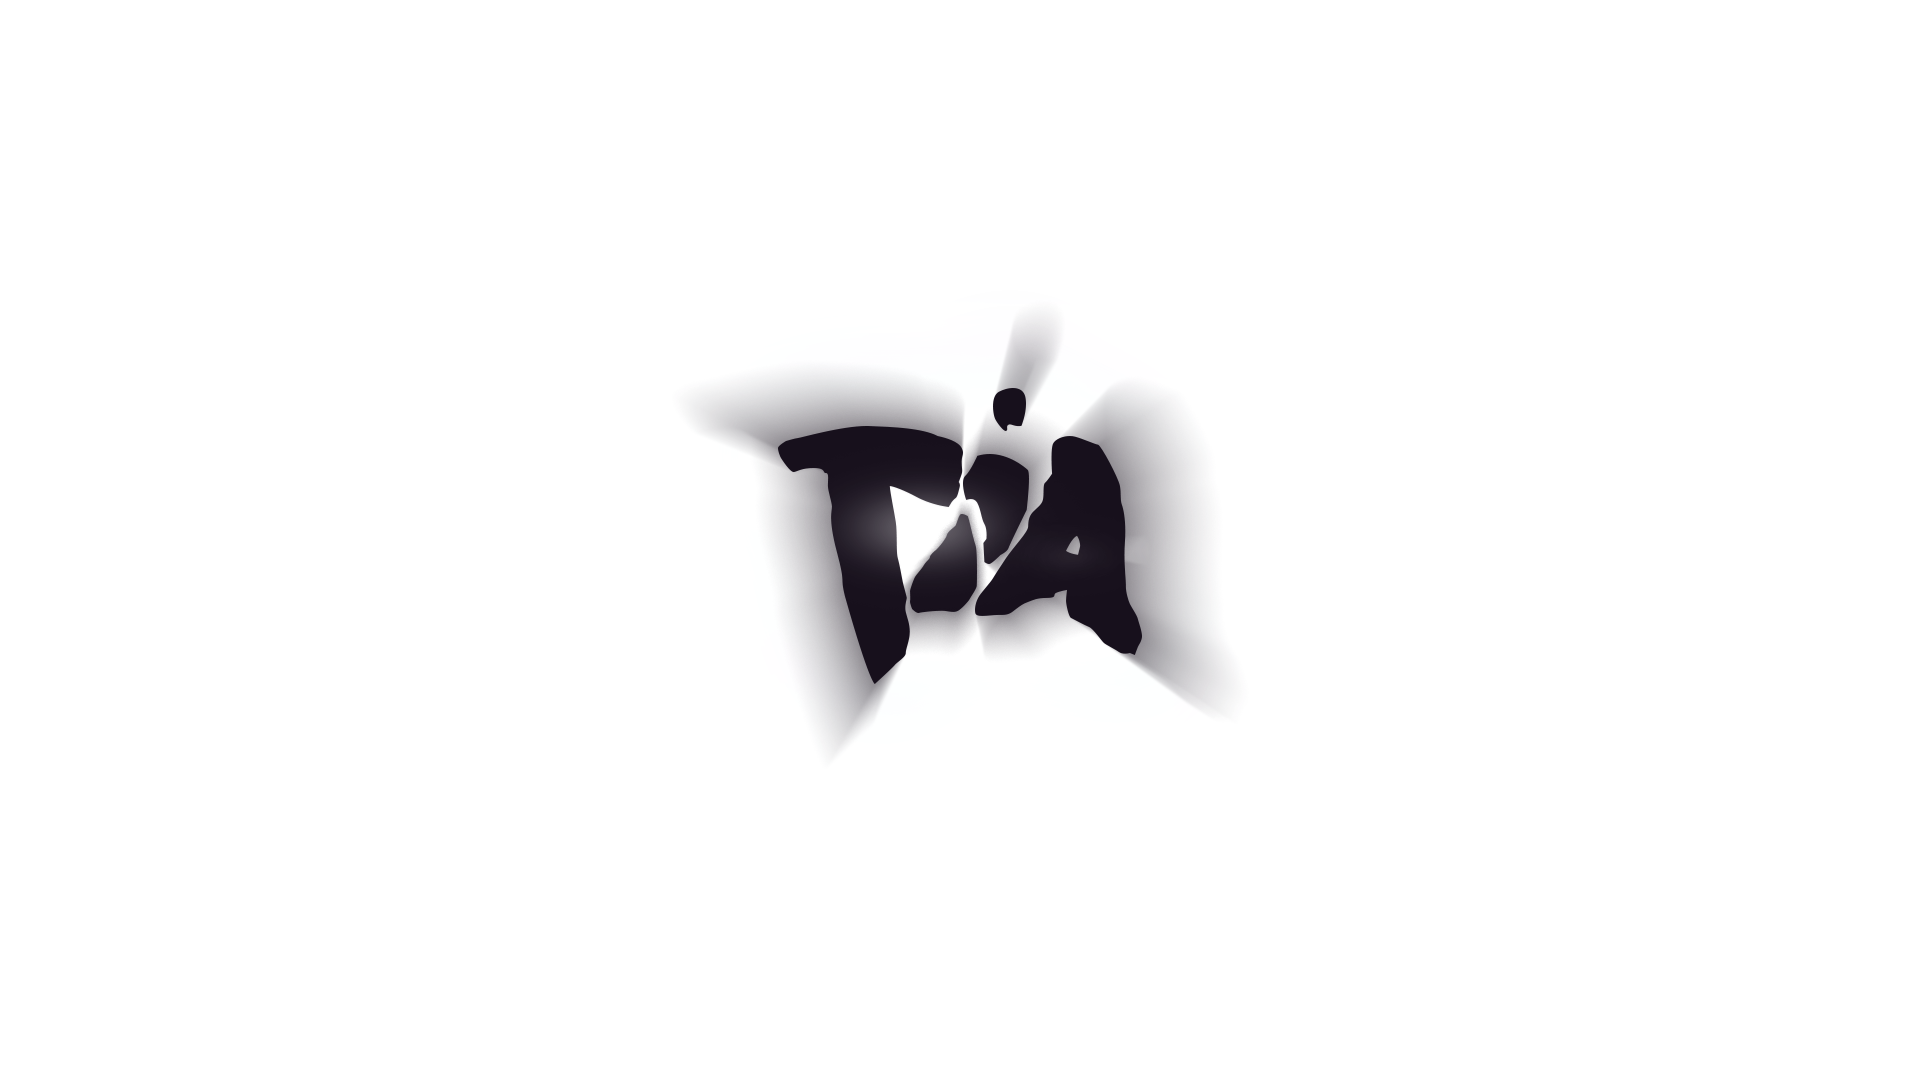
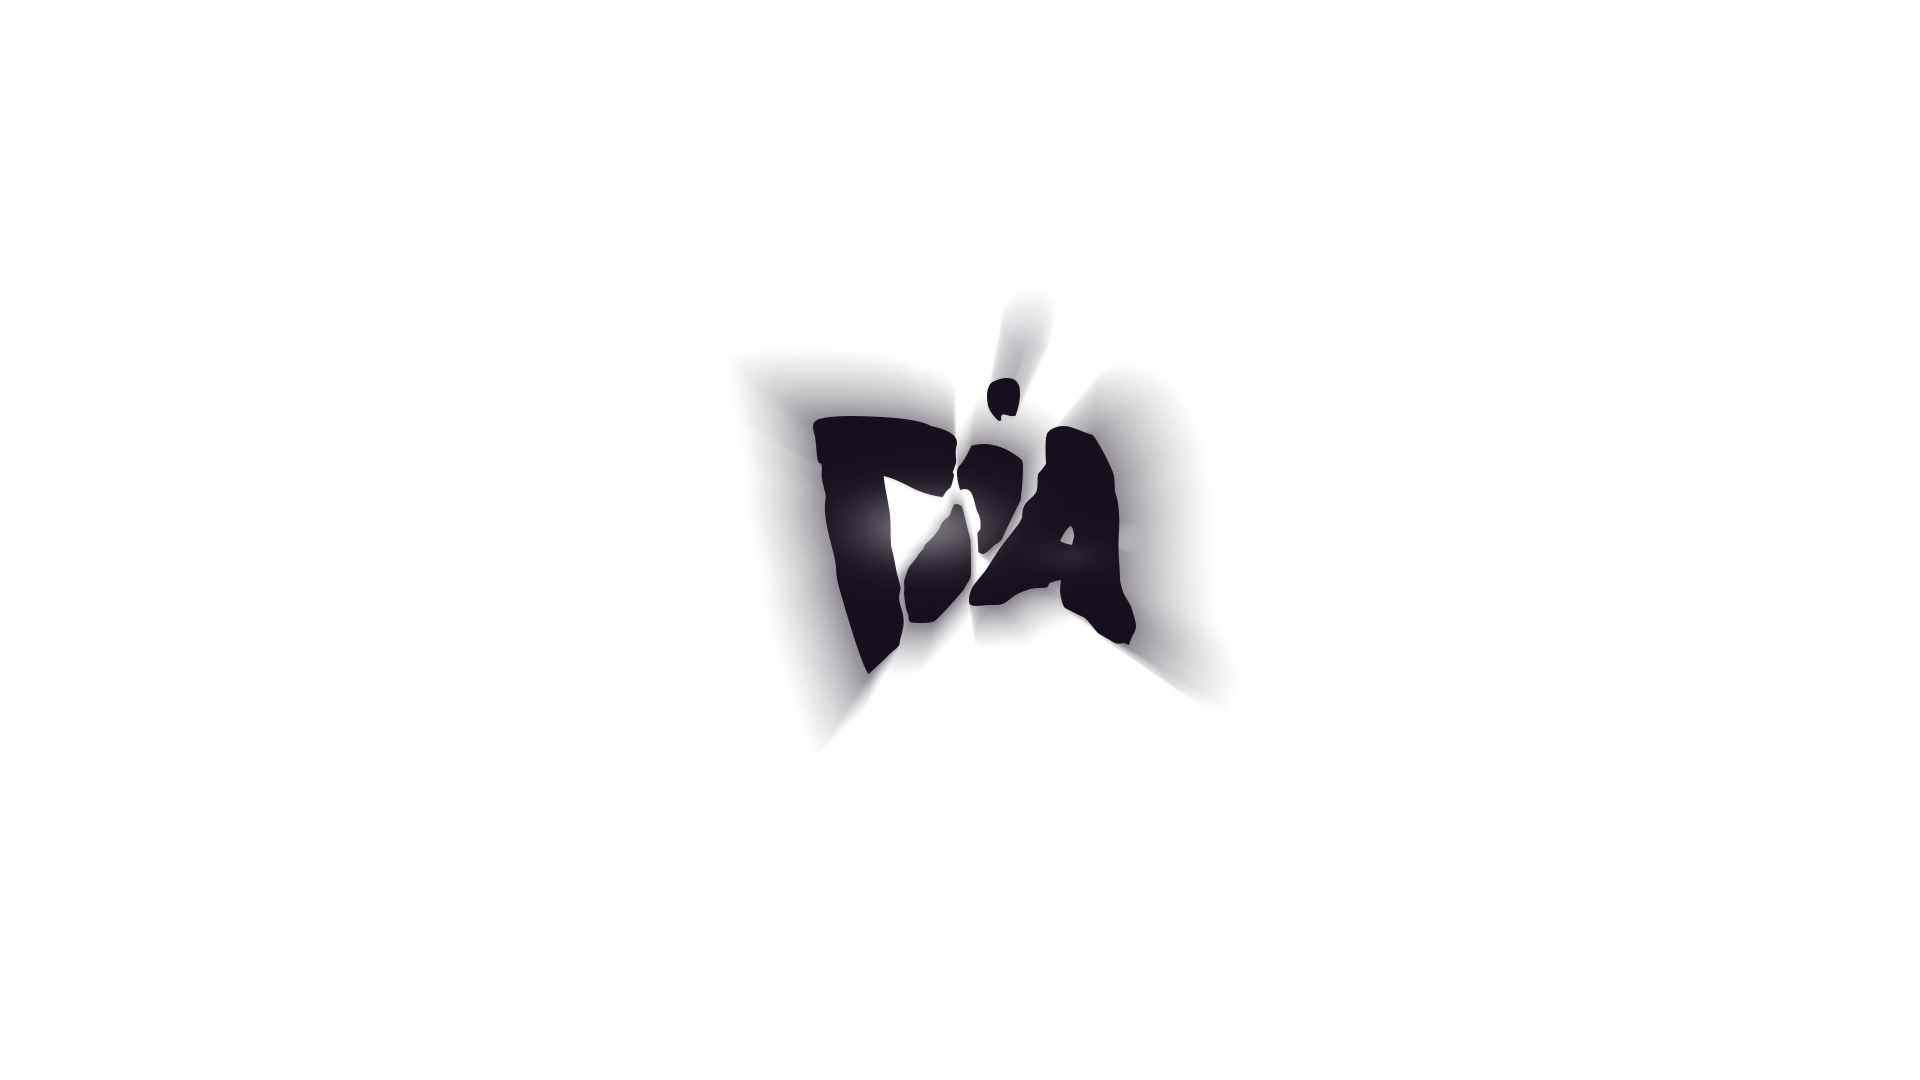
Updated images.

Changed region(s): [[0.3438, 0.3056, 0.5938, 0.6722], [0.5938, 0.6111, 0.625, 0.6417]]

diff --git a/index.css b/index.css
@@ -44,13 +44,13 @@ li[class^="layer"] {
 }
 
 .layer25 {
-    background-image: url("images/NameScreen67.png");
+    background-image: url("images/NameScreen.png");
     opacity: 67%;
     mix-blend-mode: screen;
 }
 
 .layer3 {
-    background-image: url("images/NameExport.png");
+    background-image: url("images/DotScreen.png");
     mix-blend-mode: screen;
 }
 
